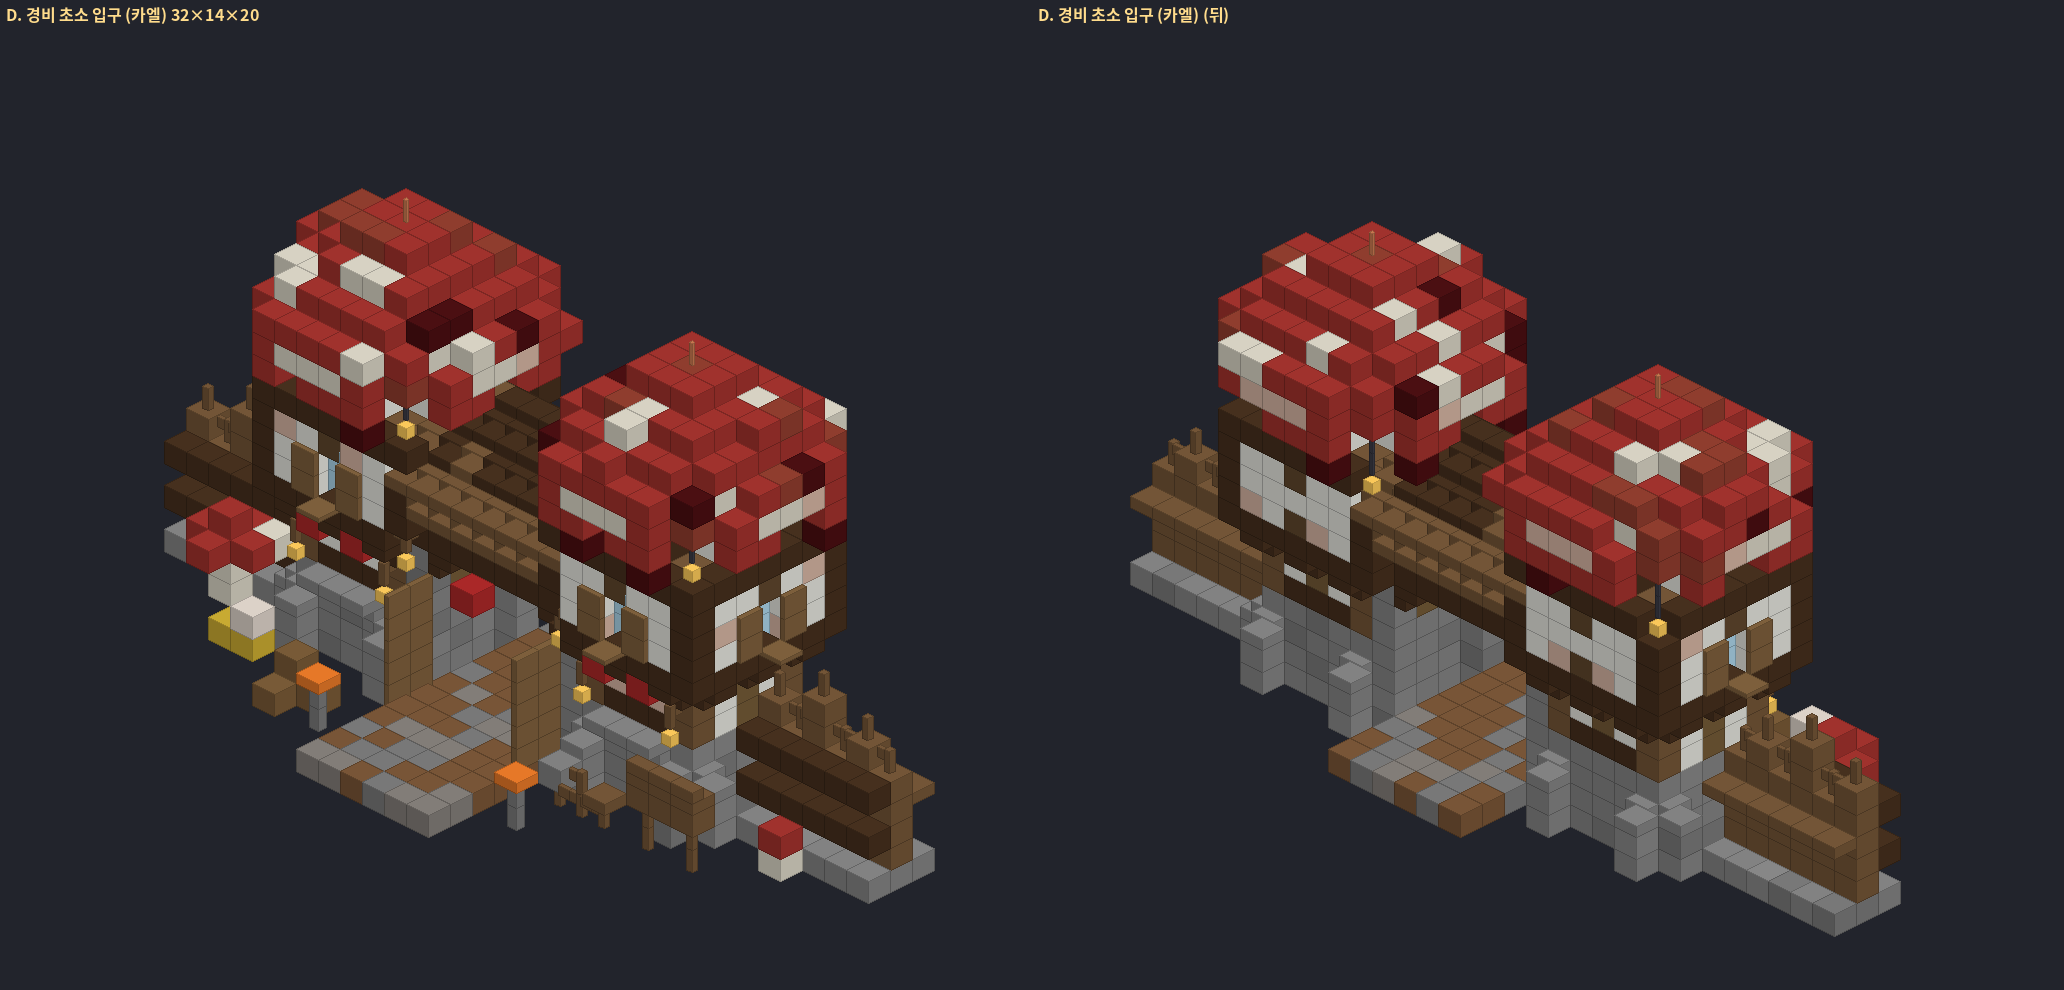
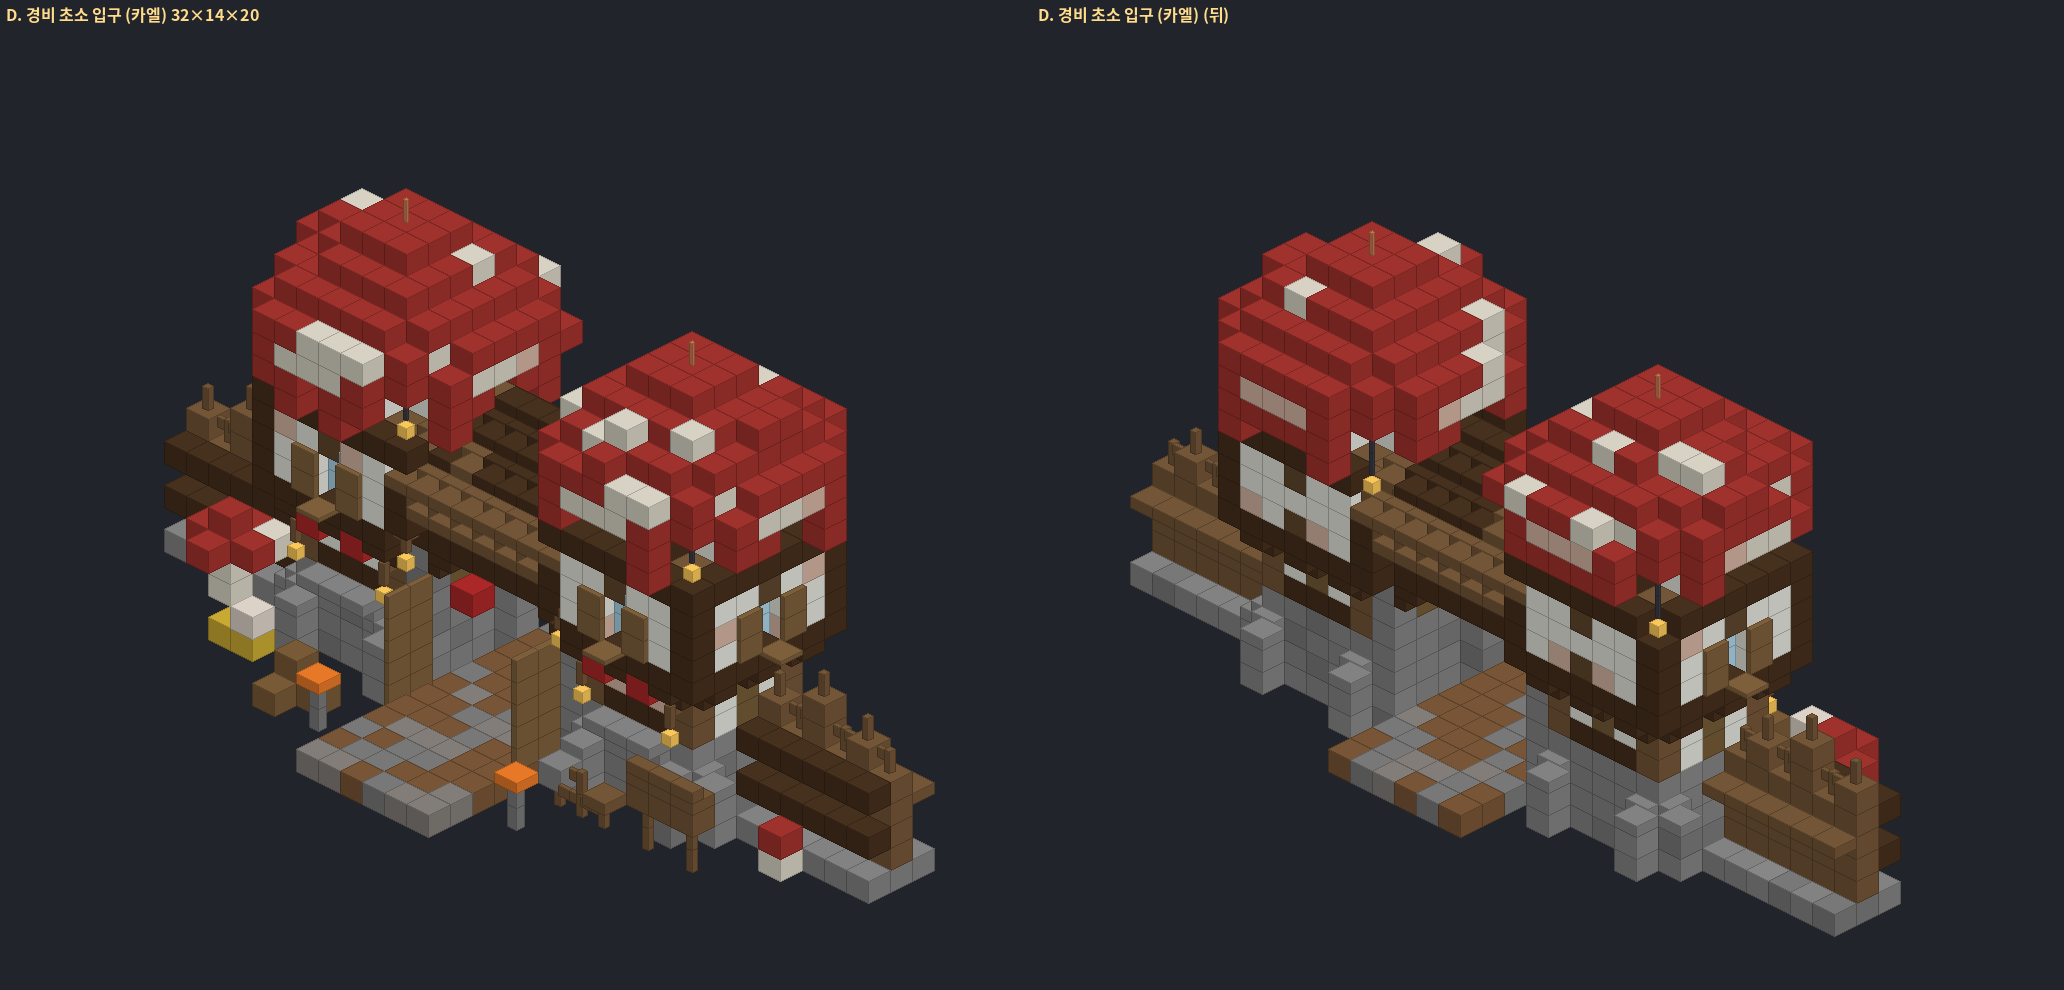
Second village: smooth out mottled cap/stem colors
Claude-Session: https://claude.ai/code/session_01PYiSEmRV1n6PLXUiXnrrEy

diff --git a/buildings/village2_v5.py b/buildings/village2_v5.py
@@ -38,13 +38,9 @@ def dcap(s, cx, cz, y0, R, kind, seed, H=None, drip=(1, 3), spots=8, glow=0, gil
     def body(y, d, is_top):
         k = y - y0; t = k / (H - 1)
         if kind == 'red':
-            if is_top and t > 0.75: return r.choices(['red_mushroom_block', 'red_terracotta', 'orange_terracotta'], [80, 12, 8])[0]
-            q = r.random(); dark = 0.14 if k <= 1 else 0.03
-            return 'red_nether_bricks' if q < dark else 'red_terracotta' if q < dark + 0.12 else 'red_mushroom_block'
+            return 'red_mushroom_block'
         if kind == 'brown':
-            if is_top and t > 0.6: return r.choices(['brown_mushroom_block', 'terracotta', 'stripped_spruce_wood' if False else 'packed_mud'], [70, 18, 12])[0]
-            q = r.random(); dark = 0.18 if k <= 1 else 0.06
-            return 'brown_terracotta' if q < dark else 'packed_mud' if q < dark + 0.1 else 'brown_mushroom_block'
+            return 'brown_mushroom_block'
     for (x, y, z), (d, a, is_top, is_bot) in cells.items():
         if is_bot and d < 0.86 * R and d > 1.2:
             st = gill[0] if int((a + 3.1416) * max(10, int(R * 2.2)) / 6.2832) % 2 else gill[1]
@@ -71,8 +67,8 @@ def dcap(s, cx, cz, y0, R, kind, seed, H=None, drip=(1, 3), spots=8, glow=0, gil
         for k in range(1, L + 1):
             if s.get(x, y0 - k, z) is not None: break
             tip = k == L and L > 1
-            if kind == 'red': s.set(x, y0 - k, z, 'red_nether_bricks' if tip else 'red_mushroom_block')
-            else: s.set(x, y0 - k, z, 'brown_terracotta' if tip else 'brown_mushroom_block')
+            if kind == 'red': s.set(x, y0 - k, z, 'red_mushroom_block')
+            else: s.set(x, y0 - k, z, 'brown_mushroom_block')
     # 아랫면 빛
     gl = [p for p, v in cells.items() if v[3] and 0.35 * R < v[0] < 0.75 * R]; r.shuffle(gl)
     for p in gl[:max(2, int(R / 2))]: s.set(*p, 'shroomlight')
@@ -121,7 +117,7 @@ def shop_red():
     s = S('v2/shop_red'); r = random.Random(501)
     plinth(s, r, 0, 1, 5.2)
     prof = lambda y: {1: 3.4, 2: 3.0, 3: 2.75}.get(y, 2.6 if y < 9 else 3.0)
-    stem(s, r, 1, 10, prof, (['mushroom_stem', 'calcite', 'birch_wood', 'smooth_quartz'], [70, 14, 8, 8]))
+    stem(s, r, 1, 10, prof, (['mushroom_stem', 'calcite'], [90, 10]))
     root_flare(s, r, 0, 0, 3.2, 5, 'mushroom_stem', 'smooth_quartz_stairs')
     # 정문 (남) + 아치
     for y in (1, 2, 3):
@@ -183,7 +179,7 @@ def shop_brown():
     s = S('v2/shop_brown'); r = random.Random(602)
     plinth(s, r, 0, 1, 5.5)
     prof = lambda y: {1: 3.6, 2: 3.2, 3: 2.9}.get(y, 2.8 if y < 10 else 3.2)
-    stem(s, r, 1, 11, prof, (['mushroom_stem', 'calcite', 'birch_wood', 'smooth_quartz'], [66, 16, 10, 8]))
+    stem(s, r, 1, 11, prof, (['mushroom_stem', 'calcite'], [90, 10]))
     root_flare(s, r, 0, 0, 3.3, 6, 'mushroom_stem', 'smooth_quartz_stairs')
     for y in (1, 2, 3):
         for z in (1, 2, 3): s.set(0, y, z, None)

diff --git a/buildings/village2_lib_v2.py b/buildings/village2_lib_v2.py
@@ -122,7 +122,7 @@ def lab():
         s.set(x, 6, z, 'spruce_fence'); s.set(x, 7, z, 'lantern[hanging=false]')
     s.set(0, 6, 11, None); s.set(0, 7, 11, None)
     # 3층 지붕: 녹색 언덕 테라스 (식물 대신 초록·연두 테라코타) + 이끼 조약돌 계단 가장자리
-    G = lambda: 'green_terracotta' if r.random() > 0.2 else 'lime_terracotta'
+    G = lambda: 'green_terracotta'
     for y, sh in ((10, 0), (11, 2), (12, 4)):
         xa, xb, za, zb = -10 + sh, 10 - sh, -4 + sh, 10 - sh
         for x in range(xa, xb + 1):
@@ -149,7 +149,7 @@ def lab():
     s.set(0, 18, 5, 'spruce_trapdoor[facing=south,half=top,open=false]')
     # 동쪽 날개 + 벽돌 굴뚝
     box(s, r, 11, 0, 6, 8, 1, 4, frame='spruce', infill=('calcite',), post_step=5, win_sides=('e', 's'))
-    roof(s, r, 11, 16, 0, 7, 5, mats=('red_sandstone', 'red_sandstone', 'granite'), eave='dark_oak', gable_fill=('calcite', 'stripped_spruce_log[axis=y]'), axis='z')
+    roof(s, r, 11, 16, 0, 7, 5, mats=('red_sandstone',), eave='dark_oak', gable_fill=('calcite', 'stripped_spruce_log[axis=y]'), axis='z')
     for y in range(1, 12): s.set(17, y, 3, r.choice(['bricks', 'bricks', 'stone_bricks']))
     s.set(17, 12, 3, 'campfire[lit=true,facing=north,signal_fire=false,waterlogged=false]')
     # 바깥 계단 (서쪽, 땅 → 2층 발코니), 받침 기둥 + 난간
@@ -207,7 +207,7 @@ def alchemy():
         rad = 2.7 - 1.0 * (y / 21)
         c = cx_at(y)
         low = y < 8
-        ring_fill(s, c, 0, y, rad, lambda x, z, d: ('smooth_sandstone' if low and r.random() < 0.35 else 'mushroom_stem' if r.random() > 0.18 else 'calcite'), r_in=rad - 1.2)
+        ring_fill(s, c, 0, y, rad, lambda x, z, d: ('smooth_sandstone' if low and r.random() < 0.15 else 'mushroom_stem' if r.random() > 0.18 else 'calcite'), r_in=rad - 1.2)
     # 줄기 혹 (울퉁불퉁)
     for (y, a) in ((6, 0.5), (11, 2.6), (15, 4.4), (18, 1.2)):
         c = cx_at(y); rad = 2.7 - y / 21 + 0.8

diff --git a/buildings/village2_cap.py b/buildings/village2_cap.py
@@ -39,15 +39,13 @@ def build(s, seed=4):
     for (x, y, z), (d, a, is_top, is_bot) in cells.items():
         if is_bot and d > 4.6 and d < OUTER[22] - 0.6:
             # 오목한 아랫면 주름 (방사형 줄무늬)
-            st = 'tuff' if int((a + 3.1416) * 26 / 6.2832) % 2 else r.choice(['light_gray_terracotta', 'polished_andesite'])
+            st = 'tuff' if int((a + 3.1416) * 26 / 6.2832) % 2 else 'light_gray_terracotta'
         elif y >= 29 or (is_top and d < 8.6):
-            st = r.choices(['orange_terracotta', 'smooth_red_sandstone', 'terracotta', 'red_mushroom_block'], [70, 16, 6, 8])[0]
+            st = 'orange_terracotta' if r.random() > 0.04 else 'smooth_red_sandstone'
         elif y >= 27 or (is_top and d < 10.2):
-            st = r.choice(['orange_terracotta', 'red_mushroom_block', 'red_mushroom_block', 'smooth_red_sandstone'])
+            st = 'red_mushroom_block' if (d > 9.4 or y < 28) else 'orange_terracotta'
         else:
-            dark = 0.12 if y <= 23 else 0.03
-            q = r.random()
-            st = 'red_nether_bricks' if q < dark else 'red_terracotta' if q < dark + 0.12 else 'red_mushroom_block'
+            st = 'red_mushroom_block'
         s.set(x, y, z, st)
     # 흰 점 (빨간 띠에, 2~3칸 덩어리)
     band = [p for p, v in cells.items() if 24 <= p[1] <= 26 and not v[3] and v[0] > OUTER[p[1]] - 1.2]
@@ -66,7 +64,7 @@ def build(s, seed=4):
         L = r.choices([0, 1, 2, 3, 4, 5], [10, 30, 28, 18, 9, 5])[0]
         for k in range(1, L + 1):
             if s.get(x, 22 - k, z) is not None: break
-            s.set(x, 22 - k, z, 'red_nether_bricks' if k == L and L > 1 else 'red_mushroom_block' if r.random() > 0.2 else 'red_terracotta')
+            s.set(x, 22 - k, z, 'red_mushroom_block')
     # 주름 사이 빛 + 사슬 랜턴
     gills = [p for p, v in cells.items() if v[3] and 5.5 < v[0] < 10.5]
     r.shuffle(gills)
